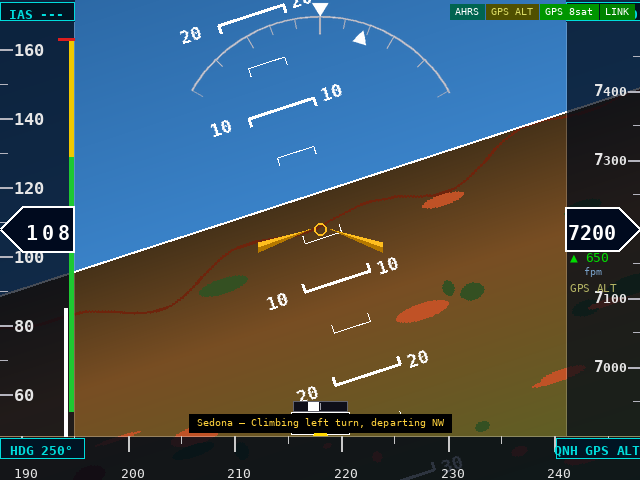
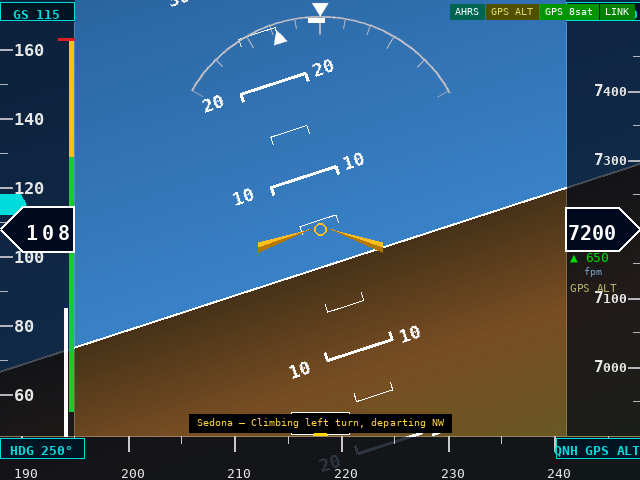
Fix pitch direction, roll pointer, slip bar, GS bug, heading bug, terrain
1. Pitch: remove sign inversion in preview horizon calc (hy = H*2+pitch_px)
2. Terrain: remove decorative juniper/rock/ridgeline/mesa placeholders from
   both preview and pfd.py; ground is now a clean gradient
3. Roll pointer: fix direction (-90+roll instead of -90-roll) in both files
4. Slip indicator: replace rectangular bubble with 4px line that slides
   under the fixed zero-bank triangle pointer
5. GS bug: add cyan pentagon arrow on speed tape outer edge + GS button
   (replaces IAS label since only ground speed is available)
6. Heading bug: wider (28px), shorter (14px), with V-notch at top matching
   the speed/alt bug style; applied in both preview and pfd.py

https://claude.ai/code/session_017SH8gTHM3ctk1qfSPqffyG

diff --git a/tools/preview_640x480.py b/tools/preview_640x480.py
@@ -117,7 +117,7 @@ def rolling_drum(img, bx, by, bw, bh, value, n_digits, color, font_sz,
 
 def draw_scene(roll, pitch, hdg, alt, speed, vspeed, ay,
                hdg_bug, alt_bug, label, filename,
-               ahrs_ok=True, gps_ok=True, baro_ok=False, sats=8):
+               gs_bug=None, ahrs_ok=True, gps_ok=True, baro_ok=False, sats=8):
 
     img  = Image.new('RGB', (W, H), (0, 0, 0))
     draw = ImageDraw.Draw(img)
@@ -130,7 +130,7 @@ def draw_scene(roll, pitch, hdg, alt, speed, vspeed, ay,
 
     focal    = 520.0
     pitch_px = focal * math.tan(pitch * DEG)
-    hy = H*2 + int(-pitch_px)   # horizon row in enlarged canvas (centred at H*2)
+    hy = H*2 + int(pitch_px)    # horizon row in enlarged canvas (centred at H*2)
 
     # Sky gradient
     for y in range(max(0, hy)):
@@ -154,44 +154,6 @@ def draw_scene(roll, pitch, hdg, alt, speed, vspeed, ay,
         else:
             col = lerp_color(ROCK_MID, ROCK_LIGHT, min(1.0, (depth - 0.65) / 0.35))
         ai_draw.line([(0, y), (W*S, y)], fill=col + (255,))
-
-    # Sedona canyon / juniper texture
-    random.seed(42)
-    for _ in range(280):
-        tx = random.randint(0, W*S)
-        ty = random.randint(hy + 20, H*S - 10)
-        tw = random.randint(6, 60)
-        th = random.randint(3, 18)
-        kind = random.random()
-        c = (JUNIPER + (180,) if kind < 0.25
-             else ROCK_DARK + (140,) if kind < 0.55
-             else ROCK_LIGHT + (100,))
-        ai_draw.ellipse([(tx, ty), (tx+tw, ty+th)], fill=c)
-
-    # Distant ridgeline silhouette
-    rpts = []
-    ridge_y = hy + 28
-    for x in range(0, W*S, 6):
-        ny = ridge_y + int(18*math.sin(x*0.007) + 12*math.sin(x*0.019) +
-                            8*math.sin(x*0.041))
-        rpts.append((x, ny))
-    for i in range(len(rpts) - 1):
-        ai_draw.line([rpts[i], rpts[i+1]], fill=ROCK_DARK+(220,), width=3)
-
-    # Mesa / butte silhouettes (Sedona flat-tops)
-    MESA      = (160,  60,  22, 240)
-    MESA_DARK = (110,  36,  12, 240)
-    for mx, mw, mh in [(W*0.18, W*0.20, 32), (W*0.55, W*0.25, 44),
-                        (W*0.82, W*0.17, 26)]:
-        base = hy + 8
-        top  = base - mh
-        mesa_pts = [(int(mx - mw/2), base), (int(mx + mw/2), base),
-                    (int(mx + mw/2 - 8), top), (int(mx - mw/2 + 8), top)]
-        ai_draw.polygon(mesa_pts, fill=MESA_DARK)
-        # Lit top edge
-        ai_draw.line([(int(mx - mw/2 + 10), top),
-                      (int(mx + mw/2 - 10), top)],
-                     fill=MESA, width=4)
 
     # Horizon line
     ai_draw.line([(0, hy), (W*S, hy)], fill=(255,255,255,220), width=2)
@@ -289,6 +251,14 @@ def draw_scene(roll, pitch, hdg, alt, speed, vspeed, ay,
         if major:
             draw.text((SPD_X+tl+2, vy-9), str(v), fill=(230,230,230), font=fnt(17, bold=True))
 
+    # GS bug — on outer (left) edge, V-notch receives box point
+    if gs_bug is not None:
+        gby = spd_y(gs_bug)
+        if TAPE_TOP < gby < TAPE_BOT:
+            gb = [(SPD_X, gby-10), (SPD_X+20, gby-10),
+                  (SPD_X+26, gby), (SPD_X+20, gby+10), (SPD_X, gby+10)]
+            draw.polygon(gb, fill=CYAN)
+
     # Speed box — convex point on outer (left/screen-edge) side, 90° tip
     bh = 44; by = TAPE_MID - bh//2; pd = bh//2  # pd=22 → 135° corners, 90° tip
     pts = [(SPD_X+SPD_W, by), (SPD_X+pd, by),
@@ -300,8 +270,9 @@ def draw_scene(roll, pitch, hdg, alt, speed, vspeed, ay,
     # Drum starts at flat part of box (SPD_X+pd), same font_sz as alt
     rolling_drum(img, SPD_X+pd+2, TAPE_MID-17, SPD_W-pd-4, 34, speed, 3, spd_col, 20)
 
-    # IAS bug button — top strip of speed tape
-    cyan_box("IAS", "---", SPD_X, 2, bw=SPD_W, bh=18)
+    # GS bug button — top strip of speed tape
+    gs_str = f"{round(gs_bug):3d}" if gs_bug is not None else "---"
+    cyan_box("GS", gs_str, SPD_X, 2, bw=SPD_W, bh=18)
 
     # ── 4. ALT TAPE CONTENT ───────────────────────────────────────────────────
     def alt_y(ft): return int(TAPE_MID - (ft - alt) * PX_PER_FT)
@@ -383,12 +354,13 @@ def draw_scene(roll, pitch, hdg, alt, speed, vspeed, ay,
             col = YELLOW if deg in CARDS else (230,230,230)
             draw.text((x-7, HDG_Y+HDG_H-15), lbl, fill=col, font=fnt(13))
 
-    # Heading bug
+    # Heading bug — wide, short, V-notch at top matching speed/alt bug style
     hb_off = ((hdg_bug - hdg + 180) % 360) - 180
     hb_x   = int(CX + hb_off * PX_PER_DEG)
     if 0 < hb_x < W:
-        bug = [(hb_x-8, HDG_Y), (hb_x+8, HDG_Y), (hb_x+8, HDG_Y+10),
-               (hb_x+4, HDG_Y+18), (hb_x-4, HDG_Y+18), (hb_x-8, HDG_Y+10)]
+        bug = [(hb_x-14, HDG_Y+14), (hb_x-14, HDG_Y),
+               (hb_x-5,  HDG_Y), (hb_x, HDG_Y+7), (hb_x+5, HDG_Y),
+               (hb_x+14, HDG_Y), (hb_x+14, HDG_Y+14)]
         draw.polygon(bug, fill=CYAN)
 
     # Heading box
@@ -468,7 +440,7 @@ def draw_scene(roll, pitch, hdg, alt, speed, vspeed, ay,
             (int(acx + a(br)*ox + a(hw)*px), int(acy + a(br)*oy + a(hw)*py)),
         ]
 
-    dh1 = doghouse_pts_inside((-90 - roll) * DEG, ROLL_R - 8, size=10)
+    dh1 = doghouse_pts_inside((-90 + roll) * DEG, ROLL_R - 8, size=10)
     arc_d.polygon(dh1, fill=WHITE + (255,))
 
     # Scale down with Lanczos (anti-aliasing via supersampling)
@@ -498,16 +470,13 @@ def draw_scene(roll, pitch, hdg, alt, speed, vspeed, ay,
     cyan_box("HDG", f"{round(hdg_bug):03d}\u00b0", SPD_X,    btn_y, bw=SPD_W+10)   # left
     cyan_box("QNH", "GPS ALT",                      ALT_X-10, btn_y, bw=ALT_W+10)  # right
 
-    # ── 9. SLIP INDICATOR (rectangular, GI-275 style) ────────────────────────
-    bw3=54; bh3=10
-    bx3=CX-bw3//2; by3=BALL_Y-bh3//2
-    draw.rectangle([(bx3, by3), (bx3+bw3, by3+bh3)],
-                   fill=(15,15,25), outline=(100,100,110))
-    draw.line([(CX, by3+2),(CX, by3+bh3-2)], fill=(160,160,170), width=1)
-    pw = 10; max_d = bw3//2 - pw//2 - 2
-    defl = int(max(-max_d, min(max_d, (ay/0.2)*max_d)))
-    draw.rectangle([(CX+defl-pw//2, by3+1),(CX+defl+pw//2, by3+bh3-1)],
-                   fill=WHITE)
+    # ── 9. SLIP INDICATOR — thin bar below zero-bank triangle pointer ─────────
+    # Slides ±12 px under the fixed doghouse, same width as its base (16 px)
+    slip_y = ROLL_CY - ROLL_R + 2   # just below tip of fixed triangle
+    max_d  = 12
+    defl   = int(max(-max_d, min(max_d, (ay / 0.2) * max_d)))
+    draw.rectangle([(CX + defl - 8, slip_y),
+                    (CX + defl + 8, slip_y + 4)], fill=WHITE)
 
     # ── 10. STATUS BADGES (top-right, AHRS / BARO / GPS / LINK) ──────────────
     bx_r = W - 4
@@ -543,6 +512,7 @@ OUT = os.path.dirname(os.path.abspath(__file__))
 draw_scene(
     roll=0, pitch=2, hdg=133, alt=8500, speed=115,
     vspeed=0, ay=0.0, hdg_bug=133, alt_bug=8500,
+    gs_bug=115,
     label="Sedona Valley — Level cruise SE at 8,500 ft",
     filename=os.path.join(OUT, "preview_sedona_level.png"),
     ahrs_ok=True, gps_ok=True, baro_ok=False, sats=8,
@@ -551,6 +521,7 @@ draw_scene(
 draw_scene(
     roll=-18, pitch=4, hdg=218, alt=7200, speed=108,
     vspeed=650, ay=-0.08, hdg_bug=250, alt_bug=9500,
+    gs_bug=115,
     label="Sedona — Climbing left turn, departing NW",
     filename=os.path.join(OUT, "preview_sedona_climb_turn.png"),
     ahrs_ok=True, gps_ok=True, baro_ok=False, sats=8,
@@ -559,6 +530,7 @@ draw_scene(
 draw_scene(
     roll=0, pitch=-3, hdg=19, alt=6200, speed=90,
     vspeed=-500, ay=0.0, hdg_bug=19, alt_bug=4900,
+    gs_bug=90,
     label="Sedona (KSEZ) — Descending final Rwy 03",
     filename=os.path.join(OUT, "preview_sedona_approach.png"),
     ahrs_ok=True, gps_ok=True, baro_ok=False, sats=8,

diff --git a/pi_display/pfd.py b/pi_display/pfd.py
@@ -239,22 +239,6 @@ def draw_simple_ai_background(surf, ai_rect, pitch, roll):
             col = GND_NEAR
         pygame.draw.line(canvas, col, (0, row), (cw, row))
 
-    # ── Mesa/butte silhouettes near horizon (Sedona-style) ───────────────────
-    MESA      = (160,  60,  22)
-    MESA_DARK = (110,  36,  12)
-    # Draw 3 flat-topped mesas at the horizon band
-    for mx, mw, mh in [(cw*0.18, cw*0.18, 28), (cw*0.55, cw*0.22, 38),
-                        (cw*0.82, cw*0.15, 22)]:
-        base = hy + 4
-        top  = base - mh
-        # Mesa body
-        pts = [(int(mx - mw/2), base), (int(mx + mw/2), base),
-               (int(mx + mw/2 - 6), top), (int(mx - mw/2 + 6), top)]
-        pygame.draw.polygon(canvas, MESA_DARK, pts)
-        # Lit top face
-        pygame.draw.line(canvas, MESA,
-                         (int(mx - mw/2 + 8), top), (int(mx + mw/2 - 8), top), 3)
-
     # ── Horizon line ──────────────────────────────────────────────────────────
     if 0 < hy < ch:
         pygame.draw.line(canvas, WHITE, (0, hy), (cw, hy), 2)
@@ -411,7 +395,7 @@ def draw_roll_arc(surf, roll):
     pygame.gfxdraw.aapolygon(surf, tri0, WHITE)
 
     # Moving roll pointer: doghouse INSIDE the arc, tip pointing outward toward arc
-    roll_ang = (-90 - roll) * DEG
+    roll_ang = (-90 + roll) * DEG
     rp_pts = _doghouse_pts(cx, cy, roll_ang, ROLL_R - 8, size=10, inward=False)
     pygame.gfxdraw.filled_polygon(surf, rp_pts, WHITE)
     pygame.gfxdraw.aapolygon(surf, rp_pts, WHITE)
@@ -454,20 +438,11 @@ def draw_aircraft_symbol(surf):
 
 # ── Slip/skid indicator ───────────────────────────────────────────────────────
 def draw_slip_ball(surf, ay):
-    """GI-275 style rectangular slip/skid indicator (replaces traditional ball)."""
-    bw, bh = 54, 10
-    bx, by2 = CX - bw // 2, BALL_Y - bh // 2
-    # Outer tube
-    pygame.draw.rect(surf, (15, 15, 25), (bx, by2, bw, bh))
-    pygame.draw.rect(surf, DIMGREY,      (bx, by2, bw, bh), 1)
-    # Centre reference line
-    pygame.draw.line(surf, LTGREY, (CX, by2 + 2), (CX, by2 + bh - 2), 1)
-    # Moving indicator block
-    pw = 10
-    max_defl = bw // 2 - pw // 2 - 2
-    defl = int(max(-max_defl, min(max_defl, (ay / 0.2) * max_defl)))
-    pygame.draw.rect(surf, WHITE,
-                     (CX + defl - pw // 2, by2 + 1, pw, bh - 2))
+    """Slip indicator: thin bar that slides under the fixed zero-bank triangle."""
+    slip_y = ROLL_CY - ROLL_R + 2   # just below the fixed triangle pointer tip
+    max_d  = 12
+    defl   = int(max(-max_d, min(max_d, (ay / 0.2) * max_d)))
+    pygame.draw.rect(surf, WHITE, (CX + defl - 8, slip_y, 16, 4))
 
 
 # ── Speed tape ────────────────────────────────────────────────────────────────
